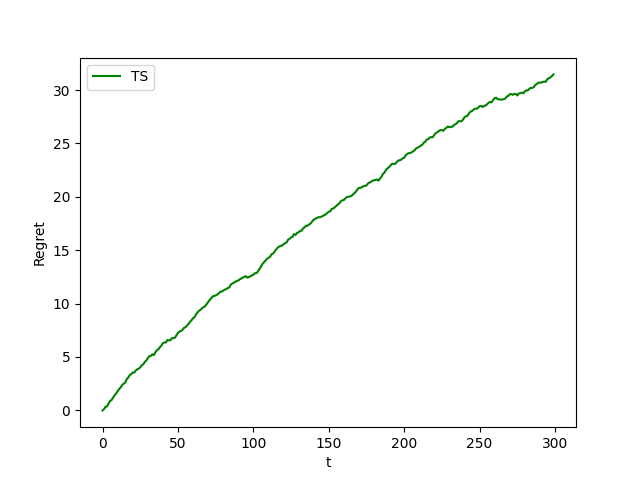
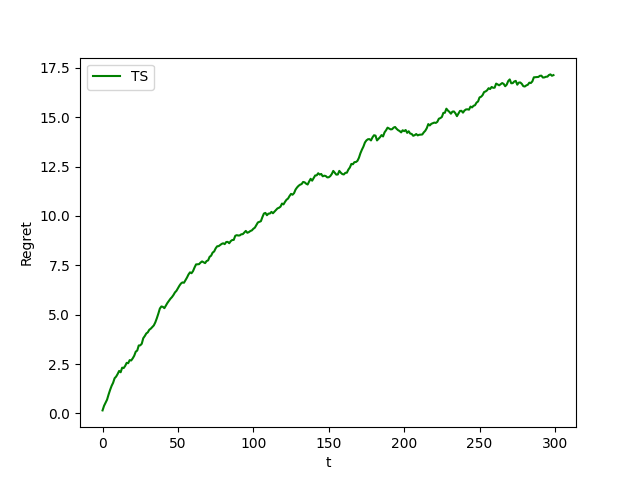
Modified x_values in assignment 4

diff --git a/src/assignment_4/assignment_4.py b/src/assignment_4/assignment_4.py
@@ -25,13 +25,13 @@ readFile = '../data/pricing.csv'
 
 # Read environment data from csv file
 data = pd.read_csv(readFile)
-n_arms = len(data.columns)
+n_arms = 10
 
-x_values = [np.linspace(min_price, max_price, n_arms) for i in range(0, len(subcampaigns))]
 y_values = []
 # The values of the y for each function
 for i in range(0, len(data.index)):
     y_values.append(np.array(data.iloc[i]))
+x_values = [np.linspace(min_price, max_price, len(y_values[s])) for s in subcampaigns]
 
 probabilities_vector = [1 / 4, 1 / 2, 1 / 4]
 conversion_prices = np.linspace(min_price, max_price, n_arms)
